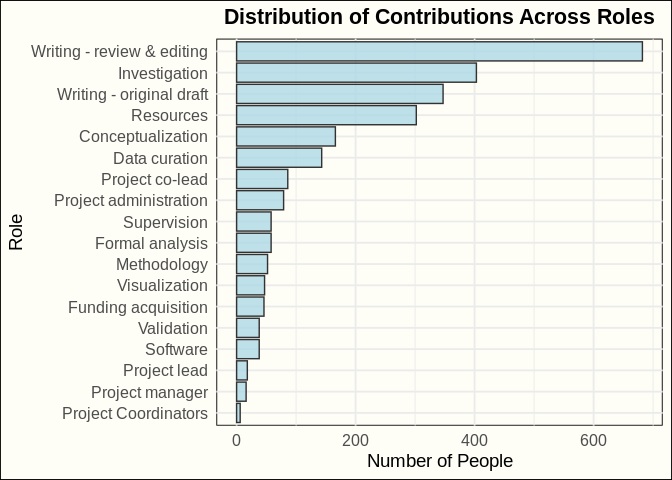
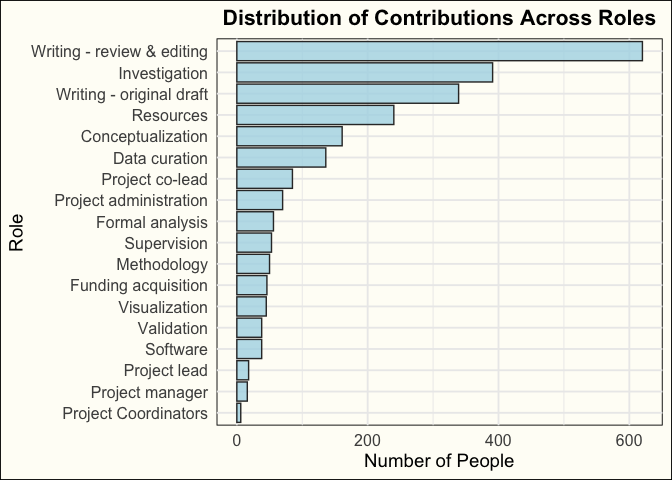
deploy: 1bad4128281e5505b6dec0f6c603132ea9c95201

diff --git a/contributor-analysis/index.html b/contributor-analysis/index.html
@@ -40,11 +40,11 @@
 <a class=dropdown-item href=/FReD/index.html target=_blank rel=noopener><span>FReD R-Package</span></a>
 <a class=dropdown-item href=/reversals><span>Replications & Reversals</span></a>
 <a class=dropdown-item href=/positive-changes-replication-crisis><span>Positive Changes from the Replication Crisis</span></a>
-<a class=dropdown-item href=/replication-hub/submit><span>Submit a replication to FReD</span></a></div></li><li class="nav-item px-2"><a class=nav-link href=/publications/><span>Publications</span></a></li><li class=nav-item><a href=/about/get-involved/ class="nav-link btn btn-primary nav-btn">🚀&nbsp;Get&nbsp;involved!</a></li></ul></div><ul class="nav-icons navbar-nav flex-row ml-auto d-flex pl-md-2"><li class=nav-item><a class="nav-link js-search" href=# alt="Opens search bar"><i class="fas fa-search" aria-hidden=true></i></a></li><li class=nav-item><a class=nav-link href=https://github.com/forrtproject/forrt alt="Link to FORRT's GitHub repository"><i class="fab fa-github" aria-hidden=true></i></a></li></ul></div></nav><div class="universal-wrapper pt-3"><h1>FORRT Contributor Analyses</h1></div><div class=universal-wrapper><div class=article-style><p>As of 02 May, 2025, FORRT has 85 completed and ongoing projects/teams
-with a total of 584 contributors across these projects.<br>There is an average (mean) of 2.34 contributions per person across all
+<a class=dropdown-item href=/replication-hub/submit><span>Submit a replication to FReD</span></a></div></li><li class="nav-item px-2"><a class=nav-link href=/publications/><span>Publications</span></a></li><li class=nav-item><a href=/about/get-involved/ class="nav-link btn btn-primary nav-btn">🚀&nbsp;Get&nbsp;involved!</a></li></ul></div><ul class="nav-icons navbar-nav flex-row ml-auto d-flex pl-md-2"><li class=nav-item><a class="nav-link js-search" href=# alt="Opens search bar"><i class="fas fa-search" aria-hidden=true></i></a></li><li class=nav-item><a class=nav-link href=https://github.com/forrtproject/forrt alt="Link to FORRT's GitHub repository"><i class="fab fa-github" aria-hidden=true></i></a></li></ul></div></nav><div class="universal-wrapper pt-3"><h1>FORRT Contributor Analyses</h1></div><div class=universal-wrapper><div class=article-style><p>Currently, FORRT has 82 completed and ongoing projects with a total of
+651 contributors across these projects.<br>There is an average (mean) of 2.06 contributions per person across all
 FORRT projects, and the average number of contributors per project is
-15.76. Team CRediT is actively working on formalizing and updating
-contributorship information.</p><p><img src=/contributor-analysis/Projects-Plot-Figure-1.png></p><p><img src=/contributor-analysis/Role-Plot-Figure-1.png></p><p><img src=/contributor-analysis/network%20graph-1.png></p></div></div><script src=https://cdnjs.cloudflare.com/ajax/libs/jquery/3.5.1/jquery.min.js integrity="sha256-9/aliU8dGd2tb6OSsuzixeV4y/faTqgFtohetphbbj0=" crossorigin=anonymous></script><script src=https://cdnjs.cloudflare.com/ajax/libs/jquery.imagesloaded/4.1.4/imagesloaded.pkgd.min.js integrity="sha256-lqvxZrPLtfffUl2G/e7szqSvPBILGbwmsGE1MKlOi0Q=" crossorigin=anonymous></script><script src=https://cdnjs.cloudflare.com/ajax/libs/jquery.isotope/3.0.6/isotope.pkgd.min.js integrity="sha256-CBrpuqrMhXwcLLUd5tvQ4euBHCdh7wGlDfNz8vbu/iI=" crossorigin=anonymous></script><script src=https://cdnjs.cloudflare.com/ajax/libs/fancybox/3.5.7/jquery.fancybox.min.js integrity="sha256-yt2kYMy0w8AbtF89WXb2P1rfjcP/HTHLT7097U8Y5b8=" crossorigin=anonymous></script><script src=https://cdnjs.cloudflare.com/ajax/libs/instant.page/5.1.0/instantpage.min.js integrity="sha512-1+qUtKoh9XZW7j+6LhRMAyOrgSQKenQ4mluTR+cvxXjP1Z54RxZuzstR/H9kgPXQsVB8IW7DMDFUJpzLjvhGSQ==" crossorigin=anonymous></script><script src=https://cdnjs.cloudflare.com/ajax/libs/mermaid/8.4.8/mermaid.min.js integrity="sha256-lyWCDMnMeZiXRi7Zl54sZGKYmgQs4izcT7+tKc+KUBk=" crossorigin=anonymous title=mermaid></script><script src=https://cdnjs.cloudflare.com/ajax/libs/highlight.js/10.1.2/highlight.min.js integrity="sha512-7t8APmYpzEsZP7CYoA7RfMPV9Bb+PJHa9x2WiUnDXZx3XHveuyWUtvNOexhkierl5flZ3tr92dP1mMS+SGlD+A==" crossorigin=anonymous></script><script src=https://cdnjs.cloudflare.com/ajax/libs/highlight.js/10.1.2/languages/r.min.js></script><script src=https://cdnjs.cloudflare.com/ajax/libs/leaflet/1.5.1/leaflet.js integrity="sha256-EErZamuLefUnbMBQbsEqu1USa+btR2oIlCpBJbyD4/g=" crossorigin=anonymous></script><script>const code_highlighting=!0</script><script>const search_config={indexURI:"/index.json",minLength:1,threshold:.3},i18n={no_results:"No results found",placeholder:"Search...",results:"results found"},content_type={post:"Posts",project:"Projects",publication:"Publications",talk:"Talks",slides:"Slides"}</script><script id=search-hit-fuse-template type=text/x-template>
+16.00. Team CRediT is actively working on formalizing and updating
+contributorship information.</p><p><img alt="Projects Plot Figure" src=/contributor-analysis/Projects-Plot-Figure-1.png></p><p><img alt="Roles Plot Figure" src=Roles-Plot-Figure-1.png></p></div></div><script src=https://cdnjs.cloudflare.com/ajax/libs/jquery/3.5.1/jquery.min.js integrity="sha256-9/aliU8dGd2tb6OSsuzixeV4y/faTqgFtohetphbbj0=" crossorigin=anonymous></script><script src=https://cdnjs.cloudflare.com/ajax/libs/jquery.imagesloaded/4.1.4/imagesloaded.pkgd.min.js integrity="sha256-lqvxZrPLtfffUl2G/e7szqSvPBILGbwmsGE1MKlOi0Q=" crossorigin=anonymous></script><script src=https://cdnjs.cloudflare.com/ajax/libs/jquery.isotope/3.0.6/isotope.pkgd.min.js integrity="sha256-CBrpuqrMhXwcLLUd5tvQ4euBHCdh7wGlDfNz8vbu/iI=" crossorigin=anonymous></script><script src=https://cdnjs.cloudflare.com/ajax/libs/fancybox/3.5.7/jquery.fancybox.min.js integrity="sha256-yt2kYMy0w8AbtF89WXb2P1rfjcP/HTHLT7097U8Y5b8=" crossorigin=anonymous></script><script src=https://cdnjs.cloudflare.com/ajax/libs/instant.page/5.1.0/instantpage.min.js integrity="sha512-1+qUtKoh9XZW7j+6LhRMAyOrgSQKenQ4mluTR+cvxXjP1Z54RxZuzstR/H9kgPXQsVB8IW7DMDFUJpzLjvhGSQ==" crossorigin=anonymous></script><script src=https://cdnjs.cloudflare.com/ajax/libs/mermaid/8.4.8/mermaid.min.js integrity="sha256-lyWCDMnMeZiXRi7Zl54sZGKYmgQs4izcT7+tKc+KUBk=" crossorigin=anonymous title=mermaid></script><script src=https://cdnjs.cloudflare.com/ajax/libs/highlight.js/10.1.2/highlight.min.js integrity="sha512-7t8APmYpzEsZP7CYoA7RfMPV9Bb+PJHa9x2WiUnDXZx3XHveuyWUtvNOexhkierl5flZ3tr92dP1mMS+SGlD+A==" crossorigin=anonymous></script><script src=https://cdnjs.cloudflare.com/ajax/libs/highlight.js/10.1.2/languages/r.min.js></script><script src=https://cdnjs.cloudflare.com/ajax/libs/leaflet/1.5.1/leaflet.js integrity="sha256-EErZamuLefUnbMBQbsEqu1USa+btR2oIlCpBJbyD4/g=" crossorigin=anonymous></script><script>const code_highlighting=!0</script><script>const search_config={indexURI:"/index.json",minLength:1,threshold:.3},i18n={no_results:"No results found",placeholder:"Search...",results:"results found"},content_type={post:"Posts",project:"Projects",publication:"Publications",talk:"Talks",slides:"Slides"}</script><script id=search-hit-fuse-template type=text/x-template>
       <div class="search-hit" id="summary-{{key}}">
       <div class="search-hit-content">
         <div class="search-hit-name">
